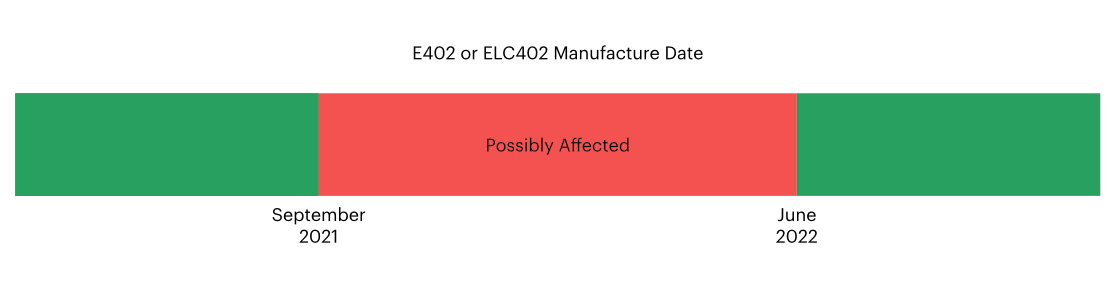
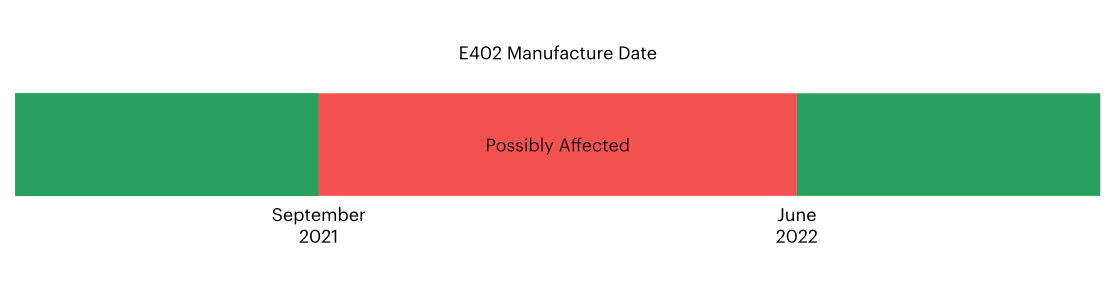
minor fixes

Changed region(s): [[0.3646, 0.1413, 0.6381, 0.2261]]

diff --git a/src/content/reference/technical-advisory-notices/tan007.md b/src/content/reference/technical-advisory-notices/tan007.md
@@ -7,35 +7,42 @@ description: TAN007 - SARA-R410M-02B-03 OTA Upgrade Issue
 
 # {{title}}
 
-Published: June 2, 2022
+Pre-Release Draft: June 2, 2022 14:11 UTC
 
-The following advisory notice describes a specific issue when OTA upgrading certain E Series and Electron LTE devices using the SARA-R410-02B-03 cellular modem between certain versions of Device OS.
+The following advisory notice describes a specific issue when OTA upgrading certain E Series devices using the SARA-R410-02B-03 cellular modem between certain versions of Device OS.
 
 The following SKUs are affected:
 
 - E Series LTE (E402)
-- Electron LTE (ELC402)
 
-This only affects devices containing the SARA-R410-02B-03 manufactured after September 2021 that shipped with Device OS 1.4.4. Devices manufactured before that contained the SARA-R410M-02B-01 module and are unaffected. Modules manufactured after June 2022 will ship with Device OS 2.3.0 and will be unaffected.
+This only affects devices containing the SARA-R410-02B-03 manufactured after September 2021 that shipped with Device OS 1.4.2. Devices manufactured before that contained the SARA-R410M-02B-01 module and are unaffected. Modules manufactured after June 2022 will ship with Device OS 2.3.0 and will be unaffected.
 
 ![Manufacture Date](/assets/images/support/manufacture-date.png)
 
-Furthermore, this only affects devices that are upgrading from 1.4.2/1.4.4 to the following Device OS versions OTA:
+Furthermore, this only affects devices that are upgrading from 1.4.2 or 1.4.4 to the following Device OS versions OTA:
 
 - 2.0.0, 2.0.1, 2.0.2
 - 2.1.0
 
 ![Upgrade Danger](/assets/images/support/ota-upgrade.png)
 
-**The recommended mitigation is to upgrade from 1.4.2/1.4.4 to 2.3.0**, skipping any intermediate versions. This will prevent the issue from occurring.
+**The recommended mitigation is to upgrade from 1.4.2 to 2.3.0**, skipping any intermediate versions. This will prevent the issue from occurring.
+
+The affected E Series LTE E402 models have the following serial numbers:
+
+- E40TAD135xxxxxx to E40TAD213xxxxxx
+
+The serial number ("SN") can be found on the sticker on the module.
+
+It does not affect the  EtherSIM E Series LTE (E404) or other SKUs.
 
 ### Scenarios where this can occur
 
-The most common scenario is a fleet of devices that are running Device OS 1.4.4. The devices mostly have the older SARA-R410-02B-01 cellular modems, but may contain some devices with the SARA-R410-02B-03 modem, however all are operating correctly.
+The most common scenario is a fleet of devices that are running Device OS 1.4.2 (or 1.4.4). The devices mostly have the older SARA-R410-02B-01 cellular modems, but may contain some devices with the SARA-R410-02B-03 modem, however all are operating correctly.
 
 If you then upgrade the product firmware on your fleet to a version that targets 2.0.0 to 2.1.0, say version 2.0.1, you will encounter this problem. The devices with SARA-R410-02B-03 modems will get stuck and never complete the upgrade.
 
-**The solution when upgrading is to go from 1.4.4 to 2.3.0, and not a lower 2.x version.**
+**The solution when upgrading is to go from 1.4.2 to 2.3.0, and not a lower 2.x version.**
 
 ### Symptoms 
 
@@ -48,19 +55,15 @@ At this point, the device will need to be flashed by USB, as it will not be able
 
 ### Mitigation
 
-#### Upgrade to 2.3.0
+The recommended mitigation is to **target your product firmware to Device OS 2.3.0**, the latest 2.x LTS release. This will prevent the OTA upgrade issue from occurring and will also have the greatest compatibility in the future. New devices from the factory will come with 2.3.0 instead of 1.4.2 in the future.
 
-The recommended mitigation is to target your product firmware to Device OS 2.3.0, the latest 2.x LTS release. This will prevent the OTA upgrade issue from occurring and will also have the greatest compatibility in the future. New devices from the factory will come with 2.3.0 instead of 1.4.4 in the future.
-
-#### Stay at 1.4.4
-
-If you keep your devices at Device OS 1.4.4, you will not experience this OTA upgrade issue. However, there are [other SARA-R410M-02B-03 issues](/reference/technical-advisory-notices/tan005-sara-r410-02b-03/) that can occur with 1.4.4, so we highly recommend upgrading to Device OS 2.3.0. Additionally, new devices from the factory will ship with 2.3.0 instead of 1.4.2 or 1.4.4 in the future.
 
 ### Not affected
 
 The following scenarios are not affected by this issue:
 
-- SKUs other than the E Series LTE (E402) and Electron LTE (ELC402) are not affected
+- SKUs other than the E Series LTE (E402) are not affected
+- The EtherSIM E Series LTE (E404) is not affected
 - Fleets only containing devices manufactured before September 2021 are not affected
 - Fleets that are already using Device OS 2.2.0 or later are not affected
 - Devices upgraded by USB are not affected (but we still recommend using Device OS 2.3.0)
